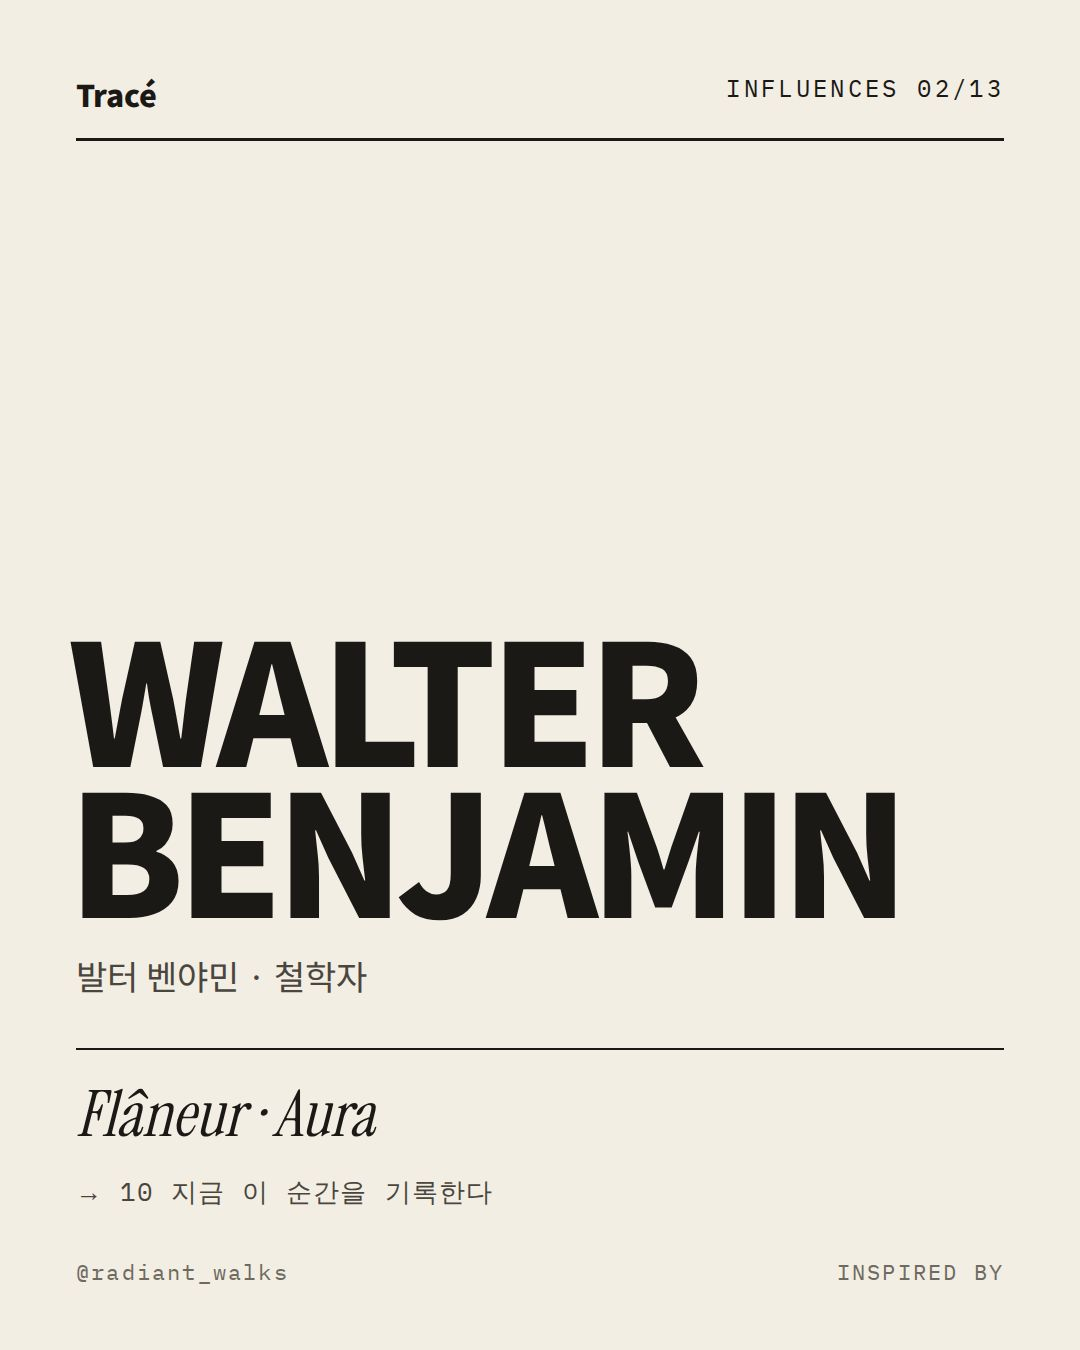
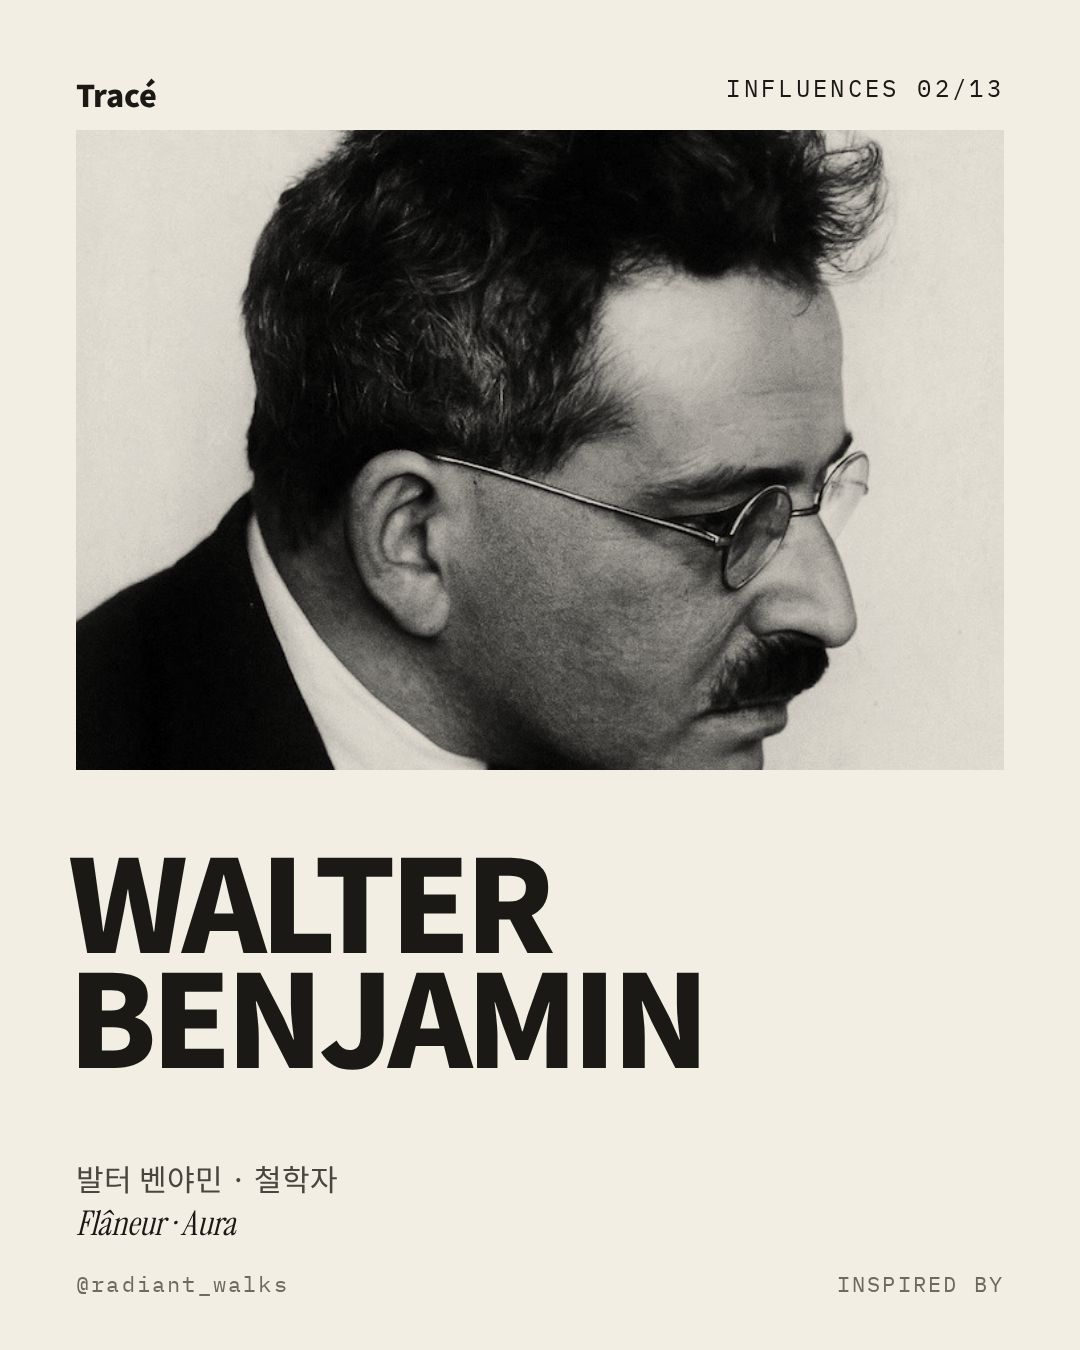
Influences: photo covers for Benjamin, Gehl, Debord, Bourdieu (photos supplied by user)
Claude-Session: https://claude.ai/code/session_01SqK9Lxgur98TyfHNbRYJgn

diff --git a/threshold/scripts/render_influences.py b/threshold/scripts/render_influences.py
@@ -68,7 +68,7 @@ h1{{position:absolute;left:68px;right:60px;top:840px;font:900 128px/.9 "Heavy";l
 .foot{{position:absolute;left:76px;right:76px;bottom:52px;display:flex;justify-content:space-between;font:400 22px "Mono";letter-spacing:.1em;color:#6e6a62}}
 </style><body>
 <div class=bar><b>Tracé</b><span>Influences {i:02d}/{n:02d}</span></div>
-<div class=ph style="background-image:url({src})"></div><p class=cr>{credit}</p>
+<div class=ph style="background-image:url({src});background-position:{p.get('photo_pos', 'center')}"></div><p class=cr>{credit}</p>
 <h1>{name}</h1><p class=ko>{html.escape(p["ko"])} · {html.escape(p["role"])}</p><p class=key>{html.escape(p["key"])}</p>
 <div class=foot><span>@radiant_walks</span><span>INSPIRED BY</span></div>
 </body>"""
